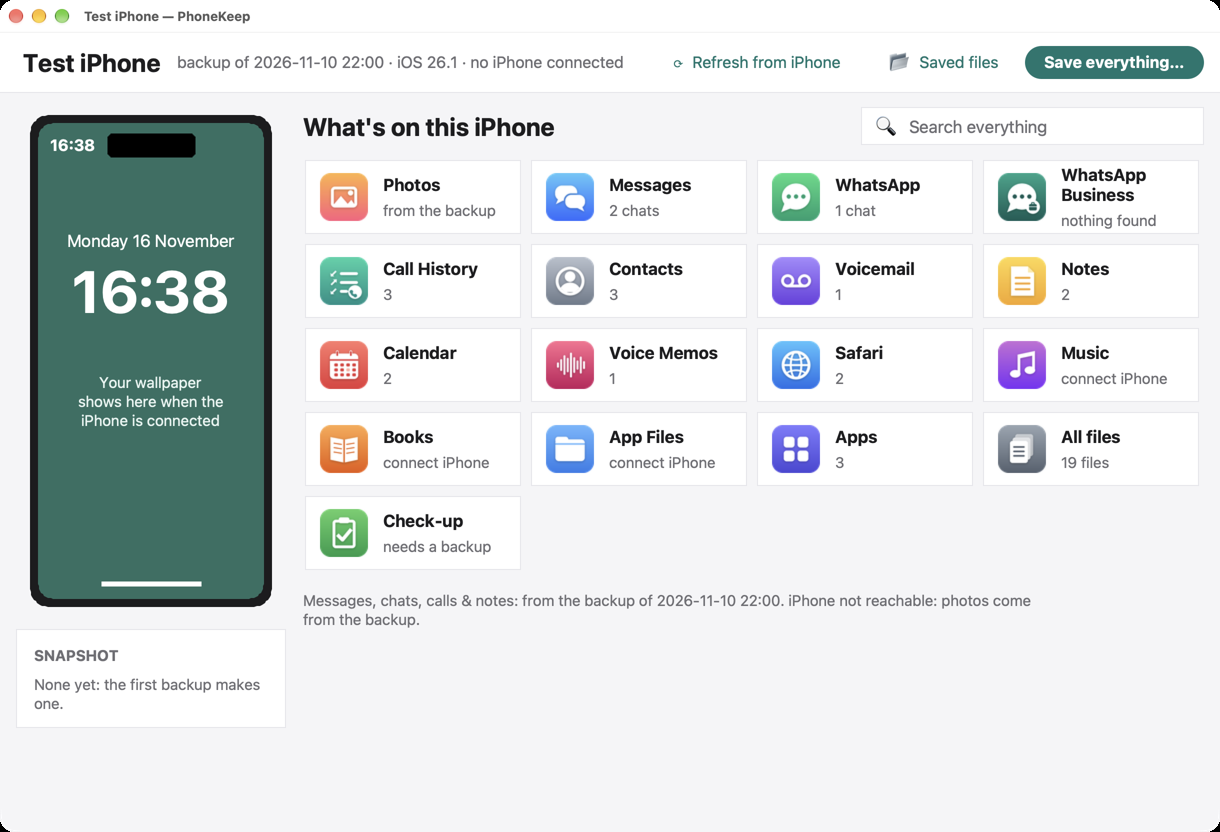
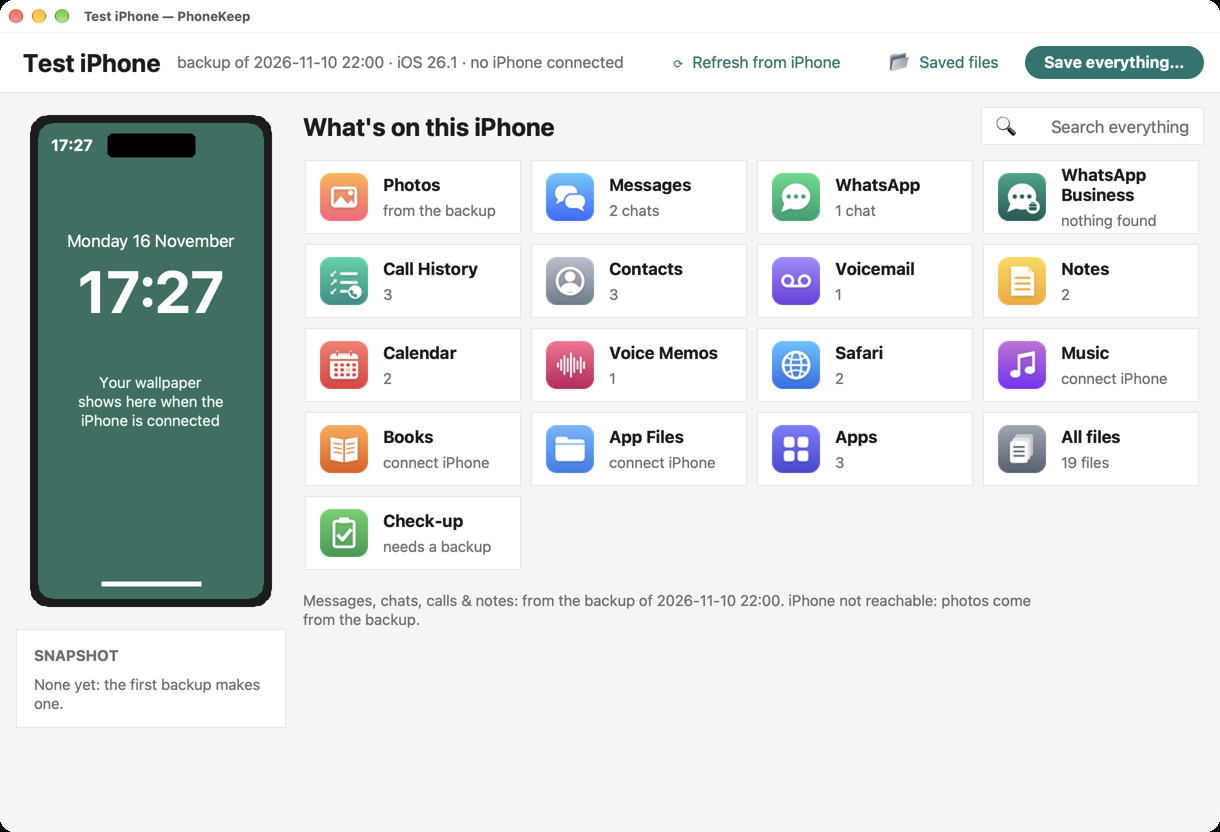
E4: the 'Search everything' hint is packed after the entry, not placed over it (Linux CI crashed when the box was torn down; #80); temporary call trace removed

Changed region(s): [[0.0623, 0.3125, 0.1869, 0.375], [0.7475, 0.125, 0.9656, 0.1562], [0.0311, 0.1562, 0.0934, 0.1875]]

diff --git a/phone.py b/phone.py
@@ -1065,19 +1065,24 @@ class PhoneWindow(tk.Toplevel):
         ent = tk.Entry(box, textvariable=self.find_q, width=26, relief="flat", bd=0, bg=CARD, fg=INK,
                        insertbackground=INK, highlightthickness=0, font=font(13))
         ent.pack(side="left", padx=(2, 10), pady=7)
+        # the grey hint is packed after the entry while it's empty (not placed over it: Tk on Linux crashed when a
+        # window placed inside the entry was torn down with it; #80 CI)
         hint = tk.Label(box, text="Search everything", bg=CARD, fg=MUTED, font=font(13), cursor="xterm")
         hint.bind("<Button-1>", lambda e: ent.focus_set())
+        tid = None
 
         def show_hint(*_):
-            try:
-                if self.find_q.get():
-                    hint.place_forget()
-                else:
-                    hint.place(in_=ent, x=1, rely=0.5, anchor="w")
-            except tk.TclError:
-                pass
+            if not hint.winfo_exists():
+                self.find_q.trace_remove("write", tid)        # this box is gone
+                return
+            if self.find_q.get():
+                hint.pack_forget()
+                ent.configure(width=26)
+            else:                           # an empty entry just wide enough for the cursor, the hint after it
+                ent.configure(width=1)
+                if not hint.winfo_manager():
+                    hint.pack(side="left", after=ent, padx=(0, 10))
         tid = self.find_q.trace_add("write", show_hint)
-        ent.bind("<Destroy>", lambda e: self.find_q.trace_remove("write", tid) if e.widget is ent else None)
         show_hint()
         box.entry = ent
         return box

diff --git a/tests/test_e4_search.py b/tests/test_e4_search.py
@@ -202,23 +202,8 @@ asked_at = []
 real_messages = win.data.preview.messages
 win.data.preview.messages = lambda *a, **k: (asked_at.append(k.get("at")), real_messages(*a, **k))[1]
 type_("dinner")
-# TEMP (Linux CI crash on #80): log every PhoneKeep call around the click
-_ROOT = str(HERE.parent)
-
-
-def _tr(frame, event, arg):
-    if event == "call" and frame.f_code.co_filename.startswith(_ROOT):
-        print(f"TRACE {Path(frame.f_code.co_filename).name}:{frame.f_lineno} {frame.f_code.co_name}", file=sys.stderr, flush=True)
-    return None
-
-
-sys.settrace(_tr)
-import threading as _th
-_th.settrace(_tr)
 h = click_first("Messages")
 check(pump(lambda: win.current == "messages" and win.find_hook is not None, 30), "clicking a message opens Messages")
-sys.settrace(None)
-_th.settrace(None)
 panel = next(w for w in win.content.winfo_children() if isinstance(w, phone.ui.ChatPanel))
 check(panel.q.get() == "dinner" and panel.current == ("messages", h.ref[0]),
       f"  with the same words in its search box and that chat chosen ({panel.q.get()!r}, {panel.current})")
